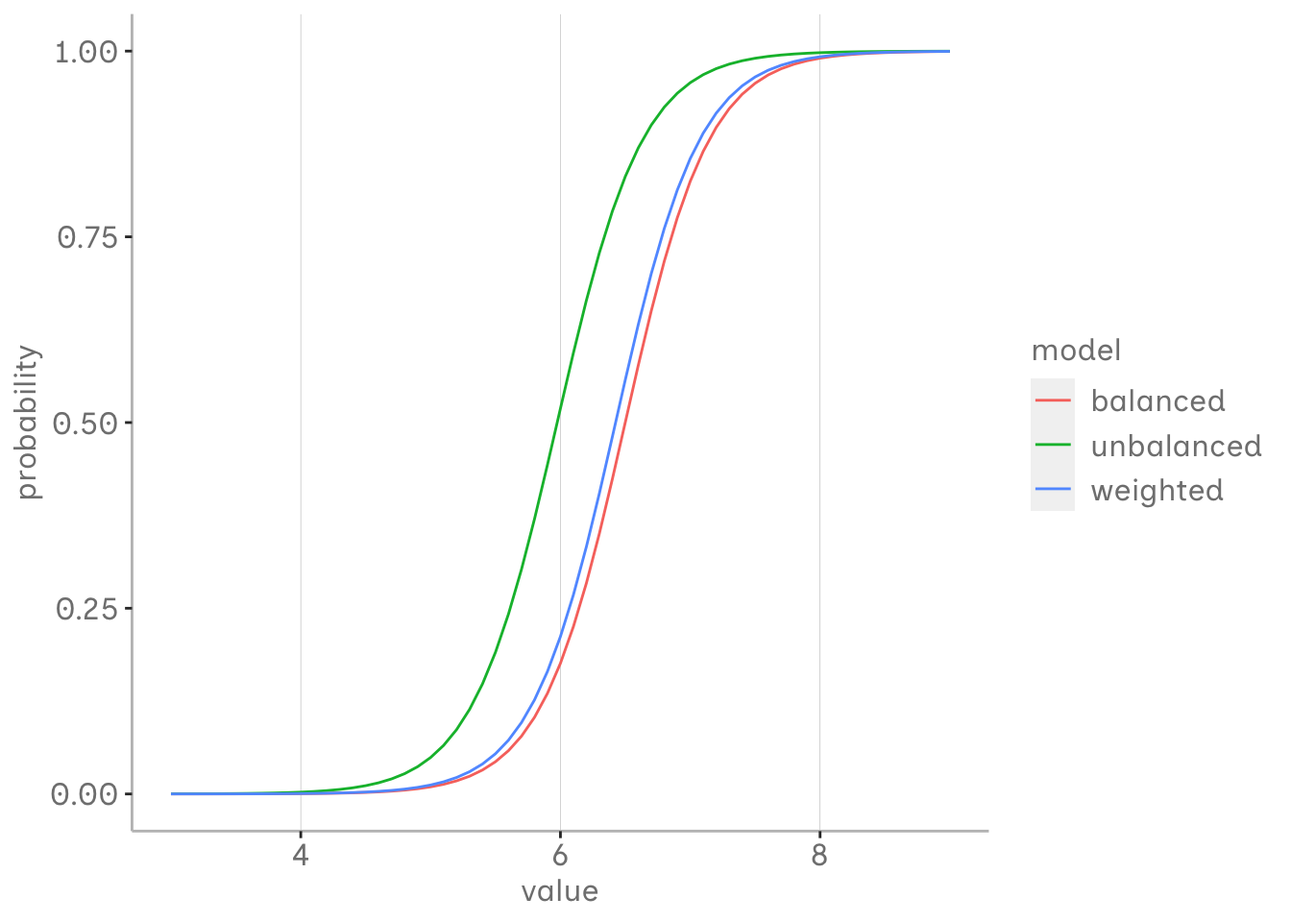
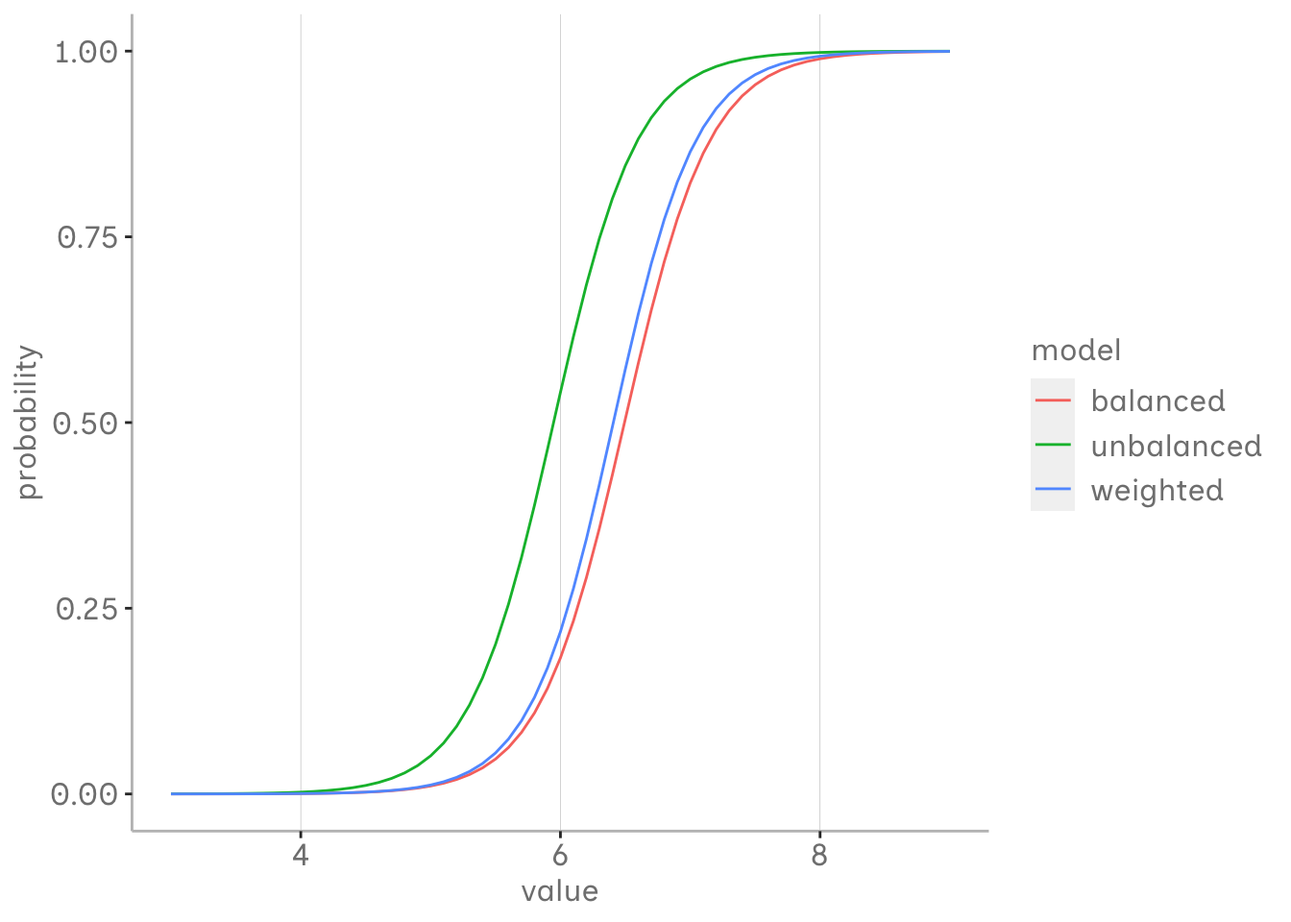
post publish

diff --git a/_site/posts/weights/logistic_sim.html b/_site/posts/weights/logistic_sim.html
@@ -6,10 +6,10 @@
 
 <meta name="viewport" content="width=device-width, initial-scale=1.0, user-scalable=yes">
 
-<meta name="dcterms.date" content="2024-05-26">
-<meta name="description" content="Weights can be used in logistic regression to deal with class imbalance. In this post, we use simulations to estimate the costs and benefits of this approach.">
+<meta name="dcterms.date" content="2024-06-04">
+<meta name="description" content="Frequency weights can be used in logistic regression to address class imbalance caused by sampling bias. In this post, we will use simulations to explore how to effectively choose weights and visually understand the benefits of this approach.">
 
-<title>probably wrong - Exploring weights in logistic regression</title>
+<title>probably wrong - Exploring frequency weights in logistic regression</title>
 <style>
 code{white-space: pre-wrap;}
 span.smallcaps{font-variant: small-caps;}
@@ -140,7 +140,7 @@ pre > code.sourceCode > span > a:first-child::before { text-decoration: underlin
 
 <header id="title-block-header" class="quarto-title-block default">
 <div class="quarto-title">
-<h1 class="title">Exploring weights in logistic regression</h1>
+<h1 class="title">Exploring frequency weights in logistic regression</h1>
   <div class="quarto-categories">
     <div class="quarto-category">R</div>
     <div class="quarto-category">modelling</div>
@@ -149,7 +149,7 @@ pre > code.sourceCode > span > a:first-child::before { text-decoration: underlin
 
 <div>
   <div class="description">
-    Weights can be used in logistic regression to deal with class imbalance. In this post, we use simulations to estimate the costs and benefits of this approach.
+    Frequency weights can be used in logistic regression to address class imbalance caused by sampling bias. In this post, we will use simulations to explore how to effectively choose weights and visually understand the benefits of this approach.
   </div>
 </div>
 
@@ -160,7 +160,7 @@ pre > code.sourceCode > span > a:first-child::before { text-decoration: underlin
     <div>
     <div class="quarto-title-meta-heading">Published</div>
     <div class="quarto-title-meta-contents">
-      <p class="date">May 26, 2024</p>
+      <p class="date">June 4, 2024</p>
     </div>
   </div>
   
@@ -170,8 +170,8 @@ pre > code.sourceCode > span > a:first-child::before { text-decoration: underlin
 
 </header>
 
-<p>In Logistic Regression, we estimate a linear model for the log odds of observing an event across different levels of our predictor. These log odds can be transformed into probabilities, which then create the characteristic S-curve.</p>
-<p>At the core, it all boils down to odds. Having odds of 1:1 in our underlying data generating process means both events are generally equally likely to occur, each with a probability of 50%. Our fictional population for the simulation follows this setup, where the probabilities of our events are dependent on values drawn from normal distributions for both groups, each with a mean of 5 and 8 and a standard deviation of 1.</p>
+<p>In logistic regression, we estimate a linear model for the log odds of observing an event at different levels of our predictor. These log odds can be transformed into probabilities, which then produce the characteristic S-curve.</p>
+<p>In essence, it all comes down to odds. Having odds of 1:1 in our underlying data generation process means that both events are equally likely to occur, each with a probability of 50%. Our fictional population for the simulation follows this setup, with the probabilities of our events depending on values from normal distributions for both groups, with means of 5 and 8 and standard deviations of 1.</p>
 <div class="cell">
 <div class="sourceCode cell-code" id="cb1"><pre class="sourceCode r code-with-copy"><code class="sourceCode r"><span id="cb1-1"><a href="#cb1-1" aria-hidden="true" tabindex="-1"></a><span class="fu">library</span>(tidyverse)</span>
 <span id="cb1-2"><a href="#cb1-2" aria-hidden="true" tabindex="-1"></a></span>
@@ -186,19 +186,19 @@ pre > code.sourceCode > span > a:first-child::before { text-decoration: underlin
 <span id="cb1-11"><a href="#cb1-11" aria-hidden="true" tabindex="-1"></a>  <span class="fu">blog_theme</span>()<span class="sc">+</span></span>
 <span id="cb1-12"><a href="#cb1-12" aria-hidden="true" tabindex="-1"></a>  <span class="fu">guides</span>(<span class="at">fill =</span> <span class="st">"none"</span>)</span></code><button title="Copy to Clipboard" class="code-copy-button"><i class="bi"></i></button></pre></div>
 <div class="cell-output-display">
-<p><img src="logistic_sim_files/figure-html/unnamed-chunk-2-1.svg" class="img-fluid" width="672"></p>
+<p><img src="logistic_sim_files/figure-html/unnamed-chunk-2-1.png" class="img-fluid" width="672"></p>
 </div>
 </div>
 <section id="simulating-imbalance" class="level2">
 <h2 class="anchored" data-anchor-id="simulating-imbalance">Simulating imbalance</h2>
-<p>To get an idea on how sample weights effect the logistic regression outcomes, we generate some simulations from our fictional population under different conditions. Each sample will consist of 400 samples with N = 400 drawing from our population.</p>
+<p>To get an idea of how frequency weights affect the logistic regression results, we will generate some simulations from our fictitious population under different conditions. Each simulation will consist of 400 samples, with each N = 400 values drawn from our population.</p>
 <ol type="1">
-<li><p><strong>Balanced Dataset:</strong> Each sample will have a 1:1 ratio of our two classes.</p></li>
-<li><p><strong>Unbalanced Dataset:</strong> Each sample will have a 1:4 ratio, representing a class imbalance.</p></li>
-<li><p><strong>Weighted Unbalanced Dataset:</strong> Similar to the unbalanced dataset, but here each sample in the minority class will be assigned a weight of 4 to counteract the imbalance.</p></li>
+<li><p><strong>Balanced dataset:</strong> Each sample will have a 1:1 ratio of our two classes and represent the proportions in the population.</p></li>
+<li><p><strong>Unbalanced dataset:</strong> Each sample will have a 1:4 ratio, representing an imbalance between the classes caused by some sort of sampling bias, where where one group is underrepresented in the sample, compared to the population.</p></li>
+<li><p><strong>Weighted unbalanced dataset:</strong> Similar to the unbalanced dataset, but here each observation in the underrepresented class is given a weight of 4 to counteract the imbalance.</p></li>
 </ol>
-<p>For each sample under these conditions, we will perform a logistic regression using the <code>logistic_sim</code> function on each sample.</p>
-<p>Afterwards we will compute the median of the estimated parameters (e.g., coefficients and intercepts) from each condition to get a robust measure of central tendency, less affected by outliers than the mean.</p>
+<p>For each sample under these conditions we will run a logistic regression using the <code>logistic_sim</code> function on each sample.</p>
+<p>We will then compute the median of the estimated parameters (e.g.&nbsp;coefficients and intercepts) from each condition in order to obtain a robust measure of central tendency.</p>
 <p>Finally, we will aggregate these median parameter estimates across all conditions into a single logistic regression model for each condition.</p>
 <div class="tabset-margin-container"></div><div class="panel-tabset">
 <ul class="nav nav-tabs" role="tablist"><li class="nav-item" role="presentation"><a class="nav-link active" id="tabset-1-1-tab" data-bs-toggle="tab" data-bs-target="#tabset-1-1" role="tab" aria-controls="tabset-1-1" aria-selected="true">logistic_sim function</a></li><li class="nav-item" role="presentation"><a class="nav-link" id="tabset-1-2-tab" data-bs-toggle="tab" data-bs-target="#tabset-1-2" role="tab" aria-controls="tabset-1-2" aria-selected="false">conditions</a></li></ul>
@@ -253,8 +253,8 @@ pre > code.sourceCode > span > a:first-child::before { text-decoration: underlin
 </div>
 </div>
 </div>
-<p>As we can see, the estimates from the unbalanced model are quite off compared to those from the balanced one. It appears that the intercept is especially affected, while the slope seems relatively similar, though all estimated probabilities are nonetheless influenced.</p>
-<p>The unbalanced model that used weights does not seem too much off. Assuming that our two events are equally likely in our population, but our sample is biased, choosing the right weight might be a solution.</p>
+<p>As we can see, the unbalanced model underestimates the first group compared to the balanced model. It seems that the intercept is particularly affected, while the slope is relatively similar. However, all the estimated probabilities are affected.</p>
+<p>Assuming that our balanced model is the closest estimate we can get of our population, the unbalanced model that used weights seems to be better fitted. Assuming that our two events are generally equally likely to occur in our population, but our sample is biased, we might be interested in adjusting these estimates using frequency weights.</p>
 <div class="cell">
 <div class="sourceCode cell-code" id="cb4"><pre class="sourceCode r code-with-copy"><code class="sourceCode r"><span id="cb4-1"><a href="#cb4-1" aria-hidden="true" tabindex="-1"></a><span class="fu">bind_rows</span>(balanced_estimates, unbalanced_estimates, weighted_estimates) <span class="sc">%&gt;%</span></span>
 <span id="cb4-2"><a href="#cb4-2" aria-hidden="true" tabindex="-1"></a><span class="fu">group_by</span>(model) <span class="sc">%&gt;%</span></span>
@@ -275,9 +275,8 @@ pre > code.sourceCode > span > a:first-child::before { text-decoration: underlin
 </section>
 <section id="relationship-between-odds-and-weights" class="level2">
 <h2 class="anchored" data-anchor-id="relationship-between-odds-and-weights">Relationship between odds and weights</h2>
-<p>But how do we determine the appropriate weight to choose?</p>
-<p>To explore this, we experiment with all possible combinations of odds and weights ranging from 1 to 20 in our fictional population. We employ the <code>logistic_sim</code> function again to estimate our median parameters under each combination.</p>
-<p>This approach allows us to systematically assess how different weights influence the logistic regression model’s ability to handle varying levels of class imbalance.</p>
+<p>But how do we determine an appropriate frequency weight?</p>
+<p>To explore this, we experiment with all possible combinations of odds and weights from 1 to 20 in our fictional population. Again, we use the <code>logistic_sim</code> function to estimate our median parameters under each combination.</p>
 <div class="cell">
 <div class="sourceCode cell-code" id="cb5"><pre class="sourceCode r code-with-copy"><code class="sourceCode r"><span id="cb5-1"><a href="#cb5-1" aria-hidden="true" tabindex="-1"></a>sample_n <span class="ot">=</span> <span class="dv">400</span></span>
 <span id="cb5-2"><a href="#cb5-2" aria-hidden="true" tabindex="-1"></a>odds <span class="ot">=</span> <span class="dv">1</span><span class="sc">:</span><span class="dv">20</span></span>
@@ -313,52 +312,52 @@ pre > code.sourceCode > span > a:first-child::before { text-decoration: underlin
 </section>
 <section id="evaluating-parameter-estimates-for-different-odds-and-weights" class="level2">
 <h2 class="anchored" data-anchor-id="evaluating-parameter-estimates-for-different-odds-and-weights">Evaluating parameter estimates for different odds and weights</h2>
-<p>We assess the performance of each model by examining the median error at different values of our variable of interest—the mean of both groups and the midpoint value between these means. Our findings indicate that the median error tends to decrease up to a certain weight threshold, after which it tends to increase again.</p>
+<p>We can evaluate the performance of each model by looking at the median error at different values of our variable of interest - the mean of the two groups and the midpoint between these means. As you can see in the graph, at the critical value of 6.5, the median error tends to decrease up to a certain weight threshold, after which it increases again. So even in such a simple example, weights only help to a certain extent and must be used with caution.</p>
 <div class="cell">
-<div class="sourceCode cell-code" id="cb8"><pre class="sourceCode r code-with-copy"><code class="sourceCode r"><span id="cb8-1"><a href="#cb8-1" aria-hidden="true" tabindex="-1"></a><span class="co">#| code-fold: true</span></span>
-<span id="cb8-2"><a href="#cb8-2" aria-hidden="true" tabindex="-1"></a></span>
-<span id="cb8-3"><a href="#cb8-3" aria-hidden="true" tabindex="-1"></a>pred <span class="ot">&lt;-</span> model_estimates <span class="sc">%&gt;%</span></span>
-<span id="cb8-4"><a href="#cb8-4" aria-hidden="true" tabindex="-1"></a>  <span class="fu">unnest</span>(estimates) <span class="sc">%&gt;%</span></span>
-<span id="cb8-5"><a href="#cb8-5" aria-hidden="true" tabindex="-1"></a>  <span class="fu">group_by</span>(odds, a_n, b_n, weight) <span class="sc">%&gt;%</span></span>
-<span id="cb8-6"><a href="#cb8-6" aria-hidden="true" tabindex="-1"></a>  <span class="fu">summarise</span>(<span class="at">alpha.median =</span> <span class="fu">median</span>(alpha),</span>
-<span id="cb8-7"><a href="#cb8-7" aria-hidden="true" tabindex="-1"></a>            <span class="at">beta.median =</span> <span class="fu">median</span>(beta)) <span class="sc">%&gt;%</span></span>
-<span id="cb8-8"><a href="#cb8-8" aria-hidden="true" tabindex="-1"></a>  <span class="fu">ungroup</span>() <span class="sc">%&gt;%</span></span>
-<span id="cb8-9"><a href="#cb8-9" aria-hidden="true" tabindex="-1"></a>  <span class="fu">mutate</span>(<span class="at">x =</span> <span class="fu">list</span>(<span class="fu">c</span>(<span class="dv">5</span>, <span class="fl">6.5</span>, <span class="dv">8</span>))) <span class="sc">%&gt;%</span></span>
-<span id="cb8-10"><a href="#cb8-10" aria-hidden="true" tabindex="-1"></a>  <span class="fu">unnest</span>(x) <span class="sc">%&gt;%</span></span>
-<span id="cb8-11"><a href="#cb8-11" aria-hidden="true" tabindex="-1"></a>  <span class="fu">mutate</span>(<span class="at">y =</span> boot<span class="sc">::</span><span class="fu">inv.logit</span>(alpha.median <span class="sc">+</span> beta.median <span class="sc">*</span> x))</span>
-<span id="cb8-12"><a href="#cb8-12" aria-hidden="true" tabindex="-1"></a></span>
-<span id="cb8-13"><a href="#cb8-13" aria-hidden="true" tabindex="-1"></a>bench <span class="ot">&lt;-</span> pred <span class="sc">%&gt;%</span></span>
-<span id="cb8-14"><a href="#cb8-14" aria-hidden="true" tabindex="-1"></a>  <span class="fu">filter</span>(weight <span class="sc">==</span> <span class="dv">1</span>, odds <span class="sc">==</span> <span class="dv">1</span>) <span class="sc">%&gt;%</span></span>
-<span id="cb8-15"><a href="#cb8-15" aria-hidden="true" tabindex="-1"></a>  <span class="fu">select</span>(x, <span class="at">y_bench =</span> y)</span>
-<span id="cb8-16"><a href="#cb8-16" aria-hidden="true" tabindex="-1"></a></span>
-<span id="cb8-17"><a href="#cb8-17" aria-hidden="true" tabindex="-1"></a>pred_bench <span class="ot">&lt;-</span> pred <span class="sc">%&gt;%</span></span>
-<span id="cb8-18"><a href="#cb8-18" aria-hidden="true" tabindex="-1"></a>  <span class="fu">left_join</span>(bench, <span class="at">by =</span> <span class="fu">join_by</span>(x)) <span class="sc">%&gt;%</span></span>
-<span id="cb8-19"><a href="#cb8-19" aria-hidden="true" tabindex="-1"></a>  <span class="fu">mutate</span>(<span class="at">median_error =</span> <span class="fu">abs</span>(y_bench <span class="sc">-</span> y)) </span>
-<span id="cb8-20"><a href="#cb8-20" aria-hidden="true" tabindex="-1"></a></span>
-<span id="cb8-21"><a href="#cb8-21" aria-hidden="true" tabindex="-1"></a>pred_min <span class="ot">&lt;-</span> pred_bench <span class="sc">%&gt;%</span></span>
-<span id="cb8-22"><a href="#cb8-22" aria-hidden="true" tabindex="-1"></a>  <span class="fu">filter</span>(x <span class="sc">==</span> <span class="fl">6.5</span>) <span class="sc">%&gt;%</span></span>
-<span id="cb8-23"><a href="#cb8-23" aria-hidden="true" tabindex="-1"></a>  <span class="fu">group_by</span>(odds) <span class="sc">%&gt;%</span></span>
-<span id="cb8-24"><a href="#cb8-24" aria-hidden="true" tabindex="-1"></a>  <span class="fu">filter</span>(median_error <span class="sc">==</span> <span class="fu">min</span>(median_error)) <span class="sc">%&gt;%</span></span>
-<span id="cb8-25"><a href="#cb8-25" aria-hidden="true" tabindex="-1"></a>  <span class="fu">select</span>(odds, weight)</span>
-<span id="cb8-26"><a href="#cb8-26" aria-hidden="true" tabindex="-1"></a></span>
-<span id="cb8-27"><a href="#cb8-27" aria-hidden="true" tabindex="-1"></a>pred_bench <span class="sc">%&gt;%</span></span>
-<span id="cb8-28"><a href="#cb8-28" aria-hidden="true" tabindex="-1"></a>  <span class="co"># mutate(odds = as.character(paste0("1:",odds))) %&gt;%</span></span>
-<span id="cb8-29"><a href="#cb8-29" aria-hidden="true" tabindex="-1"></a>  <span class="fu">ggplot</span>(<span class="fu">aes</span>(<span class="at">x =</span> weight, <span class="at">y =</span> median_error, <span class="at">col =</span> <span class="fu">factor</span>(x)))<span class="sc">+</span></span>
-<span id="cb8-30"><a href="#cb8-30" aria-hidden="true" tabindex="-1"></a>  <span class="fu">geom_line</span>()<span class="sc">+</span></span>
-<span id="cb8-31"><a href="#cb8-31" aria-hidden="true" tabindex="-1"></a>  <span class="fu">facet_wrap</span>(<span class="sc">~</span>odds)<span class="sc">+</span></span>
-<span id="cb8-32"><a href="#cb8-32" aria-hidden="true" tabindex="-1"></a>  <span class="fu">blog_theme</span>()<span class="sc">+</span></span>
-<span id="cb8-33"><a href="#cb8-33" aria-hidden="true" tabindex="-1"></a>  <span class="fu">geom_vline</span>(<span class="at">data =</span> pred_min, <span class="fu">aes</span>(<span class="at">xintercept =</span> weight), <span class="at">size =</span> <span class="dv">1</span>, <span class="at">color =</span> <span class="st">"gray"</span>, <span class="at">linetype=</span> <span class="st">"dotted"</span>)<span class="sc">+</span></span>
-<span id="cb8-34"><a href="#cb8-34" aria-hidden="true" tabindex="-1"></a>  <span class="fu">ylab</span>(<span class="st">"median error"</span>)<span class="sc">+</span></span>
-<span id="cb8-35"><a href="#cb8-35" aria-hidden="true" tabindex="-1"></a>  <span class="fu">labs</span>(<span class="at">col =</span> <span class="st">"value"</span>)</span></code><button title="Copy to Clipboard" class="code-copy-button"><i class="bi"></i></button></pre></div>
+<details>
+<summary>Code</summary>
+<div class="sourceCode cell-code" id="cb8"><pre class="sourceCode r code-with-copy"><code class="sourceCode r"><span id="cb8-1"><a href="#cb8-1" aria-hidden="true" tabindex="-1"></a>pred <span class="ot">&lt;-</span> model_estimates <span class="sc">%&gt;%</span></span>
+<span id="cb8-2"><a href="#cb8-2" aria-hidden="true" tabindex="-1"></a>  <span class="fu">unnest</span>(estimates) <span class="sc">%&gt;%</span></span>
+<span id="cb8-3"><a href="#cb8-3" aria-hidden="true" tabindex="-1"></a>  <span class="fu">group_by</span>(odds, a_n, b_n, weight) <span class="sc">%&gt;%</span></span>
+<span id="cb8-4"><a href="#cb8-4" aria-hidden="true" tabindex="-1"></a>  <span class="fu">summarise</span>(<span class="at">alpha.median =</span> <span class="fu">median</span>(alpha),</span>
+<span id="cb8-5"><a href="#cb8-5" aria-hidden="true" tabindex="-1"></a>            <span class="at">beta.median =</span> <span class="fu">median</span>(beta)) <span class="sc">%&gt;%</span></span>
+<span id="cb8-6"><a href="#cb8-6" aria-hidden="true" tabindex="-1"></a>  <span class="fu">ungroup</span>() <span class="sc">%&gt;%</span></span>
+<span id="cb8-7"><a href="#cb8-7" aria-hidden="true" tabindex="-1"></a>  <span class="fu">mutate</span>(<span class="at">x =</span> <span class="fu">list</span>(<span class="fu">c</span>(<span class="dv">5</span>, <span class="fl">6.5</span>, <span class="dv">8</span>))) <span class="sc">%&gt;%</span></span>
+<span id="cb8-8"><a href="#cb8-8" aria-hidden="true" tabindex="-1"></a>  <span class="fu">unnest</span>(x) <span class="sc">%&gt;%</span></span>
+<span id="cb8-9"><a href="#cb8-9" aria-hidden="true" tabindex="-1"></a>  <span class="fu">mutate</span>(<span class="at">y =</span> boot<span class="sc">::</span><span class="fu">inv.logit</span>(alpha.median <span class="sc">+</span> beta.median <span class="sc">*</span> x))</span>
+<span id="cb8-10"><a href="#cb8-10" aria-hidden="true" tabindex="-1"></a></span>
+<span id="cb8-11"><a href="#cb8-11" aria-hidden="true" tabindex="-1"></a>bench <span class="ot">&lt;-</span> pred <span class="sc">%&gt;%</span></span>
+<span id="cb8-12"><a href="#cb8-12" aria-hidden="true" tabindex="-1"></a>  <span class="fu">filter</span>(weight <span class="sc">==</span> <span class="dv">1</span>, odds <span class="sc">==</span> <span class="dv">1</span>) <span class="sc">%&gt;%</span></span>
+<span id="cb8-13"><a href="#cb8-13" aria-hidden="true" tabindex="-1"></a>  <span class="fu">select</span>(x, <span class="at">y_bench =</span> y)</span>
+<span id="cb8-14"><a href="#cb8-14" aria-hidden="true" tabindex="-1"></a></span>
+<span id="cb8-15"><a href="#cb8-15" aria-hidden="true" tabindex="-1"></a>pred_bench <span class="ot">&lt;-</span> pred <span class="sc">%&gt;%</span></span>
+<span id="cb8-16"><a href="#cb8-16" aria-hidden="true" tabindex="-1"></a>  <span class="fu">left_join</span>(bench, <span class="at">by =</span> <span class="fu">join_by</span>(x)) <span class="sc">%&gt;%</span></span>
+<span id="cb8-17"><a href="#cb8-17" aria-hidden="true" tabindex="-1"></a>  <span class="fu">mutate</span>(<span class="at">median_error =</span> <span class="fu">abs</span>(y_bench <span class="sc">-</span> y)) </span>
+<span id="cb8-18"><a href="#cb8-18" aria-hidden="true" tabindex="-1"></a></span>
+<span id="cb8-19"><a href="#cb8-19" aria-hidden="true" tabindex="-1"></a>pred_min <span class="ot">&lt;-</span> pred_bench <span class="sc">%&gt;%</span></span>
+<span id="cb8-20"><a href="#cb8-20" aria-hidden="true" tabindex="-1"></a>  <span class="fu">filter</span>(x <span class="sc">==</span> <span class="fl">6.5</span>) <span class="sc">%&gt;%</span></span>
+<span id="cb8-21"><a href="#cb8-21" aria-hidden="true" tabindex="-1"></a>  <span class="fu">group_by</span>(odds) <span class="sc">%&gt;%</span></span>
+<span id="cb8-22"><a href="#cb8-22" aria-hidden="true" tabindex="-1"></a>  <span class="fu">filter</span>(median_error <span class="sc">==</span> <span class="fu">min</span>(median_error)) <span class="sc">%&gt;%</span></span>
+<span id="cb8-23"><a href="#cb8-23" aria-hidden="true" tabindex="-1"></a>  <span class="fu">select</span>(odds, weight)</span>
+<span id="cb8-24"><a href="#cb8-24" aria-hidden="true" tabindex="-1"></a></span>
+<span id="cb8-25"><a href="#cb8-25" aria-hidden="true" tabindex="-1"></a>pred_bench <span class="sc">%&gt;%</span></span>
+<span id="cb8-26"><a href="#cb8-26" aria-hidden="true" tabindex="-1"></a>  <span class="co"># mutate(odds = as.character(paste0("1:",odds))) %&gt;%</span></span>
+<span id="cb8-27"><a href="#cb8-27" aria-hidden="true" tabindex="-1"></a>  <span class="fu">ggplot</span>(<span class="fu">aes</span>(<span class="at">x =</span> weight, <span class="at">y =</span> median_error, <span class="at">col =</span> <span class="fu">factor</span>(x)))<span class="sc">+</span></span>
+<span id="cb8-28"><a href="#cb8-28" aria-hidden="true" tabindex="-1"></a>  <span class="fu">geom_line</span>()<span class="sc">+</span></span>
+<span id="cb8-29"><a href="#cb8-29" aria-hidden="true" tabindex="-1"></a>  <span class="fu">facet_wrap</span>(<span class="sc">~</span>odds)<span class="sc">+</span></span>
+<span id="cb8-30"><a href="#cb8-30" aria-hidden="true" tabindex="-1"></a>  <span class="fu">blog_theme</span>()<span class="sc">+</span></span>
+<span id="cb8-31"><a href="#cb8-31" aria-hidden="true" tabindex="-1"></a>  <span class="fu">geom_vline</span>(<span class="at">data =</span> pred_min, <span class="fu">aes</span>(<span class="at">xintercept =</span> weight), <span class="at">size =</span> <span class="dv">1</span>, <span class="at">color =</span> <span class="st">"gray"</span>, <span class="at">linetype=</span> <span class="st">"dotted"</span>)<span class="sc">+</span></span>
+<span id="cb8-32"><a href="#cb8-32" aria-hidden="true" tabindex="-1"></a>  <span class="fu">ylab</span>(<span class="st">"median error"</span>)<span class="sc">+</span></span>
+<span id="cb8-33"><a href="#cb8-33" aria-hidden="true" tabindex="-1"></a>  <span class="fu">labs</span>(<span class="at">col =</span> <span class="st">"value"</span>)</span></code><button title="Copy to Clipboard" class="code-copy-button"><i class="bi"></i></button></pre></div>
+</details>
 <div class="cell-output-display">
-<p><img src="logistic_sim_files/figure-html/unnamed-chunk-8-1.svg" class="img-fluid" width="672"></p>
+<p><img src="logistic_sim_files/figure-html/unnamed-chunk-8-1.png" class="img-fluid" width="672"></p>
 </div>
 </div>
 </section>
 <section id="choosing-weights" class="level2">
 <h2 class="anchored" data-anchor-id="choosing-weights">Choosing weights</h2>
-<p>This threshold seems to be closely related to the odds ratio. Thus, choosing the assumed imbalance of the odds as the weight is particularly beneficial, especially for lower imbalances. However, deviations at higher imbalances may also be due to the uncertainty of estimates as the sample size for the minority group decreases. As the odds increase, the need for precise weight selection becomes less critical compared to using the unbalanced model.</p>
-<p>For lower odds, there’s a tolerance for selecting an incorrect weight. For example, in our specific simulation, at odds of 1:2, the weight estimate could vary from 2 weights off to 19 off, depending on the predictor value, and still provide more precise estimates than the unweighted model. However, while there seems to be some tolerance, it’s important to note that no broad generalizations should be drawn from our simplified simulation.</p>
+<p>The threshold with the most balanced estimates seems to be closely related to the odds ratio. Thus, choosing the assumed imbalance of the odds as the weight may be the most appropriate, especially for smaller imbalances. At least in our simple setup. However, deviations for higher imbalances may also be due to the uncertainty of the estimates as the sample size for the minority group decreases. As the odds increase, almost any weight seems to produce more appropriate estimates than the unbalanced model where we did not adjust for sampling bias.</p>
 <div class="cell">
 <div class="sourceCode cell-code" id="cb9"><pre class="sourceCode r code-with-copy"><code class="sourceCode r"><span id="cb9-1"><a href="#cb9-1" aria-hidden="true" tabindex="-1"></a>no_weight_bench <span class="ot">&lt;-</span> pred_bench <span class="sc">%&gt;%</span></span>
 <span id="cb9-2"><a href="#cb9-2" aria-hidden="true" tabindex="-1"></a>  <span class="fu">filter</span>(weight <span class="sc">==</span> <span class="dv">1</span>) <span class="sc">%&gt;%</span></span>
@@ -391,8 +390,7 @@ pre > code.sourceCode > span > a:first-child::before { text-decoration: underlin
 </section>
 <section id="conclusion" class="level2">
 <h2 class="anchored" data-anchor-id="conclusion">Conclusion</h2>
-<p>Weights are a practical approach to address data imbalances that don’t reflect the actual odds in the population. But, it’s important to adjust these weights carefully, based on what we know about the population to get better results. Also, it’s good to recognize that natural class imbalances in your data should be seen as normal features, not issues to be fixed.</p>
-<p>Comparing different models, with and without weight adjustments, especially in terms of their predictive accuracy, can be quite helpful. Just keep in mind, our simple simulation doesn’t cover all the bases. So, when you’re doing your research, make sure to take into account the specific factors relevant to your field, as the literature suggests.</p>
+<p>Depending on the scenario, weights may be helpful to deal with sampling bias and class imbalance that does not reflect the population (at least in a simple setup, like the one we worked with). However, they should be used with prior knowledge of the population to not overadjust the sampling bias. One solution might be to adjust the observed odds by the expected odds ratio in the population, in the group affected by the sampling bias. The natural class imbalance should also be maintained in the logistic regression unless you have good reasons not to.</p>
 
 
 </section>

diff --git a/_site/index.html b/_site/index.html
@@ -145,14 +145,14 @@ ul.task-list li input[type="checkbox"] {
 
 <div class="quarto-listing quarto-listing-container-default" id="listing-listing">
 <div class="list quarto-listing-default">
-<div class="quarto-post image-right" data-index="0" data-categories="R,modelling" data-listing-date-sort="1716674400000" data-listing-file-modified-sort="1717260740821" data-listing-date-modified-sort="NaN" data-listing-reading-time-sort="9">
+<div class="quarto-post image-right" data-index="0" data-categories="R,modelling" data-listing-date-sort="1717452000000" data-listing-file-modified-sort="1717488422856" data-listing-date-modified-sort="NaN" data-listing-reading-time-sort="9">
 <div class="thumbnail">
 <p><a href="./posts/weights/logistic_sim.html"> <img src="./posts/weights/weight.png" class="thumbnail-image"> </a></p>
 </div>
 <div class="body">
 <a href="./posts/weights/logistic_sim.html">
 <h3 class="no-anchor listing-title">
-Exploring weights in logistic regression
+Exploring frequency weights in logistic regression
 </h3>
 <div class="listing-subtitle">
 
@@ -168,14 +168,14 @@ modelling
 </div>
 <a href="./posts/weights/logistic_sim.html">
 <div class="listing-description">
-<p>Weights can be used in logistic regression to deal with class imbalance. In this post, we use simulations to estimate the costs and benefits of this approach.</p>
+<p>Frequency weights can be used in logistic regression to address class imbalance caused by sampling bias. In this post, we will use simulations to explore how to effectively choose weights and visually understand the benefits of this approach.</p>
 </div>
 </a>
 </div>
 <div class="metadata">
 <a href="./posts/weights/logistic_sim.html">
 <div class="listing-date">
-May 26, 2024
+Jun 4, 2024
 </div>
 </a>
 </div>
